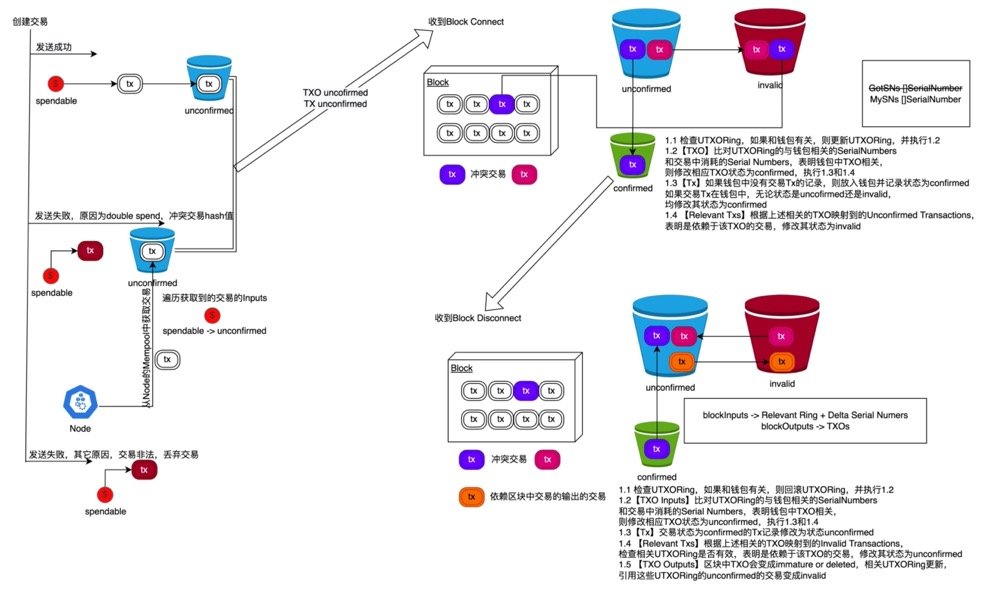
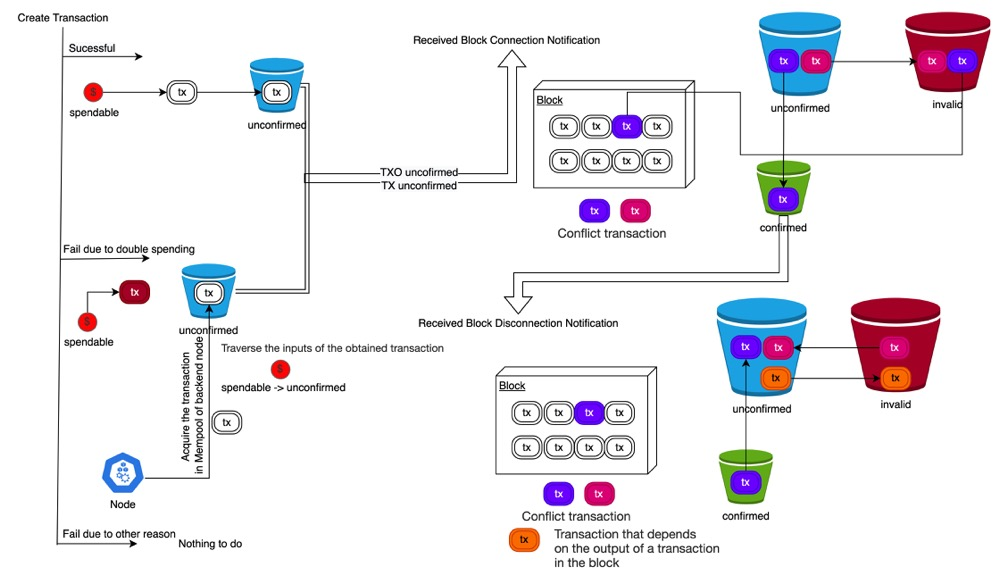
review and refactor the parts before sec. 4

Changed region(s): [[0.0, 0.0, 0.992, 0.9863], [0.186, 0.9247, 0.248, 0.9555], [0.372, 0.0925, 0.403, 0.1233]]

diff --git a/docs/AbewalletDesign.md b/docs/AbewalletDesign.md
@@ -140,44 +140,34 @@ The process is basically the same as creating a wallet, except that choose to **
 
 # 3. Detailed Designs
 
-## 3.1 The start of abewallet
-The ***package abewallet (actually abewallet/abewallet.go)*** is the entrance of the wallet.
-- It loads configuration and parse command line, and if the configuration file does not exist, it will initialize that.
-- The command and options to start abewallet are list as the table below:
-  - `abewallet --create`
-    - start wallet create procedure
-      - initial and fill the database
-      - generate the initial (first) address
-      - scan the genesis block
-  - `abewallet --walletpass=[public passphrase]`
-    - connect the ABEC node to synchronize the blockchain data
-    - start the RPC server to listen the client's requests
-  
-## 3.2 Wallet Create and Address Create
+## 3.1 Wallet Create and Address Generate
 
-#### 3.2.1 Wallet create
+### 3.2.1 Wallet Create
 
 The command `abewallet --create` will trigger the procedure of wallet creation.
 If the wallet database exits, it will just show the warning information and stop.
 Otherwise, it will 
 
-- request the user to input ***private passphrase*** and ***public passphrase***. 
+- request the user to input **private passphrase** and **public passphrase**. 
 
 - request the user to input whether he has a seed to restore the wallet. To create a new wallet, here the user should input 'No'.
 
-- generate the ***seed***, then convert the seed to **mnemonic words** with the wordlists defiend in package `wordlists`.
+- generate the **seed**, then convert the seed to **mnemonic words** with the word lists defined in package `abeallet.wordlists`.
 
-- create buckets relevant to address and transaction. More details would be described below【 TODO reference】.
+- create `buckets` relevant to address and transaction. More details would be described below in 3.?.?【 TODO reference】.
+  
+  **NOTE:** we are using ??? as the underlying database, where buckets are used to store the data in the form of (name, value) pair.
 
-- create the protecting key as shown in the following figure:
+- create the protecting keys as shown in the following figure:
 
   ![Manage Key](images/Manage Key.svg)
 
-  - Three crypto keys are generated randomly with the help of package `snacl` i.e. **public crypto key**, **private crypto key** and **seed crypto key**, which will be used to protect the wallet data.
+  - Three crypto keys are generated randomly with the help of package `abewallet.snacl` i.e. **public crypto key**, **private crypto key** and **seed crypto key**, 
+  which will be used to protect/encrypt the wallet data.
 
   - A **public master key** is generated from public passphrase, and is used to protect the public crypto key.
 
-  - A **private master key** is generated from private passphrase, and is used to protect the private crypto key and **seed crypto key**.
+  - A **private master key** is generated from private passphrase, and is used to protect the private crypto key and seed crypto key.
 
 - derive the seeds as shown in the following figure:
 
@@ -187,80 +177,96 @@ Otherwise, it will
 
     The seed will be wiped while these two derived seeds will be stored in the wallet for address generation. 
 
-- intialize the **index number** of address to be 0.
+- initialize the **index number** of address to be 0.
 
 - generate the initial (first) instance address according to the following process of address generation.
 
-#### 3.2.2 Address generate
+### 3.2.2 Address Generate
 
-To generate an **instance address**, the **instance seed** is firstly generated from the two derived seed and index number. More specifically, the instance seed consists of  two parts, the first part is generated from (the address key, the index number) , and the second part is generated from (the value key seed, the index number). Then, the instance seed is used to call the package `abec/abecrypto`, and an instance address and its keys are returned. The keys includes **crypto address spend key**, **crypto address serial number key**, and **crypto view key**. The index number will be incremented by 1.
+To generate an **instance address**, an **instance seed** is firstly generated from the two derived seeds and the current index number. 
+More specifically, the instance seed consists of two parts, where the first part is generated from (the address key, the index number) and the second part is generated from (the value key seed, the index number). 
+Then, the instance seed is used to call the package `abec.abecrypto`, and an instance address and its keys are returned. 
+The keys include **crypto address spend key**, **crypto address serial number key**, and **crypto view key**. The index number will be incremented by 1.
 
-- **instance address** is used as receiving address such as as mining address or a receiving address for transfer transactions.
-- **crypto address spend key** is used to transfer money, the key would be require when generating the transaction.
-- **crypto address serial number key** is used to generate an unique identification for each transaction ouptut in abelian blockchain.
-- **crypto view key** is used to view the currency information in the transaction output.
+- **instance address** is used as the mining address in mining or receiving address in transfer transactions.
+- **crypto address spend key** is used to transfer coins, which is used to unlock the wallet before creating transfer transactions.
+- **crypto address serial number key** is used to generate a unique identifier for each TXO in Abelian blockchain.
+- **crypto view key** is used to view the currency information in the transaction output. 
 
-NOTE: the address key seed and the value key seed is protected by the seed crypto key; the instance addres, the crypto address serial number key, and the crypto view key are protected by public crypto key; and the crypto address spend key is protected  by private crypto key. 
+NOTE: the address key seed and the value key seed is protected by the seed crypto key;
+the crypto address spend key is protected  by private crypto key;
+the instance address, the crypto address serial number key and the crypto view key are protected by public crypto key.
 
-## 3.3 Configure the connected ABEC node
 
-Overview of connection architecture :
+## 3.3 Configure the Wallet
+
+The overview of the connection between wallet and ABEC node, 
+as well as the services to users is shown as the following figure.
 
 ![Module Connection](images/Module Connection.svg)
 
-- At the node side, port 8667 as the default port is used to listen for connections and requests, at the same time,  `rpcuser`, `rpcpass`  and certificates is used to  provide identity authentication capabilities.
+- At the ABEC node side, port 8667 is used as the default port to listen for connections and requests.
+  At the same time,  `rpcuser`, `rpcpass`  and certificates are used to  provide identity authentication capabilities.
 
-- At the wallet side, port 8665 as the default port is used to listen for connections and requests, at the same time,  `username`, `password`  and certificates is used to  provide identity authentication capabilities. At the same time,  the wallet establishes a connection with the node by specifying `abecrpcuser` and `abecrpcpass`, IP address of abelian node, and its certificate.
+- At the wallet side, to connect a local or remote ABEC node, `abecrpcuser`, `abecrpcpass`, `abecrpcconnect` (for IP address and port (default 8667) of ABEC node), and `abeccafile` (for certificate of ABEC node) need to be configured.
+  On the other side, to provide services to users, wallet must make a minimum configure to configure `rpcuser` and `rpcpass`, which will be used to access the services of wallet.
+  The port 8665 is used as the default port to listen for connections and requests to wallet.
 
-	NOTE: 
+- At the user side, the owner can access the wallet service by using `rpcuser`, `rpcpass`, `rpcserver` (for IP address and port (default 8665) of wallet), and `rpccert`. For example, by **abewalletctl** or **??** connection.
 
-- If `abecrpcuser` and `abecrpcpass` are not specified, the `username` and  `password` are used instead.【TODO discard the bind, rename abecrpcuser/abecrpcpass to abecrpcuser/abecrpcpass, username/password to rpcuser/rpcpass 】
+**NOTE:** 
+- If the wallet runs in the same machine with the ABEC node, the `abeccafile` and `abecrpcconnect` don't need to be configured.
 
-- If the wallet runs in the same machine, the `cafile` and `rpcconnect` don't need to be set.
-
-At the abewalletctl side, the command terminal establishes a connection with the wallet by specifying `rpcuser`, `rpcpass` , IP address of wallet, and its certificate.
-
-NOTE: 
-
-- If the abewalletctl runs in the same machine, the `rpccert` and `rpcserver` don't need to be set.
+- If the abewalletctl runs in the same machine with the wallet, the `walletrpccert` and `walletrpcserver` don't need to be set.
 
 ## 3.4 Synchronize the blockchain
 
-By scanning the blockchain data, the wallet checks and stores the transaction outputs (also known as  **TXO**s or **coin**s). According to the characteristics of the blockchain, it can be divided into two basic processes, one is that a block is connected to the block chain, and the other is that the block is disconnected from the block chain. Both cases can be realized through the notification mechanism of the node. 
+For a wallet configured to connect a ABEC node, when it is started, it will 
+establish a connection with the configured ABEC node, 
+synchronize the blockchain from the ABEC node to find and fetch its coins and related data,
+and keep synchronized with the ABEC node by receiving and handling the notifications of block-connect and block-disconnect.
+With the synchronized data, the wallet maintains the following data, including
 
-The database of wallet is design as follow:
+- the addresses of the wallet, 
+- the TXO/coin set of the wallet, 
+- the transactions generating or consuming the related to the wallet,
+- and the deduced and related data, such as balance, **txo-ring**, etc. 
 
-The wallet status includes the address and derivative status associated with the wallet, the wallet balance, the TXO set associated with the wallet and its status, the transaction related to the wallet and its status.
+The database of wallet is designed as follows:
+- Wallet maintains an **index number** as a status of the wallet, and each address is generated and associated with a unique index number.
+- Wallet maintains the TXOs associated with the addresses, which are divided into the following five categories, to support query and transfer.
+  - **immature coinbase TXO set**, storing the wallet's TXOs which are generated by coinbase transaction but still unspendable.
+  NOTE: In Abelian, a TXO/coin generated by coinbase transaction in block with height `h` will become matured/spendable only when the blockchain height `H` satisfies `H - h/3 >= 200`. 
+  - **immature transfer TXO set**, storing the wallet's TXOs which are generated by transfer transaction but still unspendable.
+    NOTE: In Abelian, a TXO/coin generated by transfer transaction in block with height `h` will become matured/spendable only when the blockchain height `H` satisfies `H/3 - h/3 >= 1`.
+  - **mature txo set**, storing the spendable TXOs.
+  - **unconfirmed txo set**, storing the TXOs that have been spent but the corresponding transactions have not been confirmed/mined by current synchronized blockchain.
+  - **confirmed txo set**, storing the wallet's TXOs that have been spent and confirmed.
+- Wallet maintains the **UTXORing**s of the wallet, where each UTXORing consists of a set of TXOs, one or more of which belong to the wallet.
+  NOTE: In Abelian, each input of a transfer transaction is a (TXORing, serial number) pair.
 
-- Wallet maintains a index number and derives a new address according to the indexer number
-- Wallet maintains balance information to support query
-- The wallet maintains the wallet-related TXO set, which divides the TXO into five categories and supports querying different status TXO set.
-
-  - Immature coinbase txo set
-  - immature transfer txo set
-  - mature txo set
-  - unconfirmed txo set
-  - confirmed txo set
-
-In the wallet, the processing logic for the block chain transaction output is as follows:
+In the wallet, the processing procedure is described as below:
 
 ![Store UTXOs](images/Store UTXOs.svg)
 
-- When receiving a block connection notification, do the following process:
-  - traverse all the output. If it belongs to you, record it and put it in two buckets (immature coinbase and immature transfer).
-    - generate block output records for quick rollback
-    - Update immature balance and total balance
-  - deal with all input and generate block input records for quick rollback
-  - move matured output/unconfirmed output-> confirmed output
+- When receiving a block-connect notification, fetch the block, and do the following process for each transaction:
+  - traverse all the outputs. 
+  If a TXO belongs to the wallet (depending on the TXO and the wallet's addresses and keys), 
+  then put the TXO into either immature coinbase TXO bucket or the immature transfer TXO bucket.
+    - generate `block output` records **(TODO: name the database/structure explicitly)** for quick rollback
+    - update immature balance and total balance
+  - deal with all inputs. Identify the consumed TXOs and move the corresponding TXO from matured TXO bucket/unconfirmed TXO bucket into confirmed TXO bucket.
+    - generate `block input` records for quick rollback
     - update mature balance, unconfirmed balance and total balance
     - update UTXORing
-  - process coinbase maturity, check immatured coinbase data, and update immature coinbase balances and mature balances
-  - check whether the current height is a special height, and if so, generate a ring.
-    - update and record RingDetail and UTXORing for relevant transaction output
+  - process maturity.
+    - move the new mature coinbase/transfer TXO to the mature bucket, and update the immature coinbase/transfer balance and mature balance.
+  - check whether the current height is a special height, and if so, generate new UTXORings.
+    - update and record `RingDetail` and `UTXORing` for relevant transaction output
     - update immature transfer balances, mature balances
   - storing block and balance
-- When receiving a block disconnection notification, do the following process:
-  - check whether the current height is a special height, and if so, pull out the blockoutput of the three blocks that generate the ring.
+- When receiving a block-disconnect notification, do the following process:
+  - check whether the current height is a special height, and if so, pull out the `blockoutput` of the three blocks that generate the ring.
     - for the corresponding things in mature/unconfirmed/confirmed transaction output, modify their RingHash to zero, and move to immatured transfer output respectively
     - for the only modified utxo.RingHash in immatured coinbase, put it back to immature coinbase output
     - update immature/mature/unconfirm/total balance
@@ -268,13 +274,13 @@ In the wallet, the processing logic for the block chain transaction output is as
   - fetch the block output record, and delete them from immature trasfer/coinbase output, meanwhile update immature/total balance
   - fetch the block input record, update/delete UTXORing, and compare new and old UTXORing
     - put the corresponding UTXO of the serial number back into the mature output, then update mature/total balance
-  - change the coinbase of the corresponding block to immature coinbase, and update the freezed/spendable balance
+  - change the coinbase of the corresponding block to immature coinbase, and update the frozen(**??**)/spendable balance
 
 ## 3.5 Query wallet information
 
 To support querying wallet information, the wallet provides external service through RPC Server, the default port is 8667.
 
-All services are provided by registering the command name and the corresponding handler in package `rpc/legacyrpc`.
+All services are provided by registering the command name and the corresponding handler in package `abewallet.rpc.legacyrpc`.
 
 | Name                   | Paramters               | Description                                                  |
 | ---------------------- | ----------------------- | ------------------------------------------------------------ |
@@ -287,29 +293,35 @@ All services are provided by registering the command name and the corresponding 
 | listspendbutunminedabe | null                    | print all unconfirmed txos which belong wallet by directly querying the sub-bucket in database |
 | listspentandminedabe   | null                    | print all confirmed txos which belong wallet by directly querying the sub-bucket in database |
 | generateaddressabe     | null                    | derive a new address by derived seed and index number which increase by 1 after completion |
-| walletpassphrase       | passphrase<br />timeout | keep the wallet unlocked for a specified time                |
 
-## 3.6 Transfe Transaction Create
 
-Wallet maintains wallet-related transactions. Transactions are divided into three categories. Inquiry transactions will be supported later.
+## 3.6 Transfer Transaction Create
 
-- unconfirmed
-- confirmed
-- invalid
+Wallet maintains the wallet-related transactions, including those generated coins to wallet and those consumed wallet's coins.
+According to the status, the transactions are divided into three categories:
+- unconfirmed transactions
+- confirmed transactions
+- invalid transactions
 
-The transaction status flow is shown in the following figure, more details can be found below.：
+Inquiry transactions will be supported later.
+
+The transaction status flow is described below as shown in the following figure, from the perspectives of the following three events
 
 - When creating a transaction, 
-- When receiving a block connection notification,
-- When receiving a block disconnection notification,
+- When receiving a block-connect notification,
+- When receiving a block-disconnect notification,
 
-![Store Transaction](./images/Store Transaction - English.svg)
+![Store Transaction](./images/Store Transaction.svg)
 
 The logic of managing transaction:
 
-- When creating a transaction, if the transaction is sucessful ,the record it as unconfirmed. Otherwise, if the transaction is rejected due to doule spending, so the conflicted transaction would be queried and record.
-- When receiving a block connection notification,
-  - check UTXORing, update UTXORing if it is related to wallet, and execute following processes
+- When creating a transaction, if the operation is successful, then record it as unconfirmed. 
+  Otherwise, if the transaction is rejected due to double-spending, then query and fetch the conflicted transaction from the ABEC node and store it locally in unconfirmed status.
+- When receiving a block connection notification, fetch the block, and perform the following procedure for each transaction in the block:
+  - check whether the transaction is in `unconfirmed transaction bucket` or `invalid transaction` bucket
+    - If yes, move the corresponding transaction to `conformed transaction bucket`, and move all conflict transactions to `invalid transaction bucket`
+    - **todo**: is it possible that there is no such a transaction or in `confirmed transaction bucket`, but the transaction is related to the wallet's coins?
+  - check UTXORings in wallet. If a  and update UTXORing if the it is related to wallet, and execute following processes
     - [TXO] compare UTXORing's wallet-related SerialNumbers and the Serial Numbers consumed in the transaction, indicating that the TXO in the wallet is related. Then change the corresponding TXO status to confirmed
     - [Tx] if there is no record of trading Tx in the wallet, put it in the wallet and record the status as confirmed. If the transaction Tx is in the wallet, regardless of whether the status is uncofirmed or invalid, modify their status to confirmed.
     - [Relevant Txs] the Unconfirmed Transactions mapped to according to the relevant TXO above. Indicates that the transaction is dependent on the TXO and changes its status to invalid
@@ -322,15 +334,21 @@ The logic of managing transaction:
 
 ## 3.7 Restore Wallet
 
-Users can recover their wallets through the mnemonic words saved when generating the wallet. The process is basically the same as creating a wallet. As shown in the following figure, the main difference is that the user converts active input mnemonic words into seeds rather than automatically created by the wallet and then into mnemonic words. Note that the user is required to input the **max index number** of recovery addresses.
+A user can restore his wallet through the crypto version and mnemonic words saved when generating the wallet. 
+The process is basically the same as creating a new wallet, except choosing to `have seed` to restore the wallet.
+Note that the user is required to input the **max index number** of recovery addresses.
 
-The wallet initializes the database, converts the mnemonic words to the seed, and complete the process of seed derivation, and initialize index at the same time and generates addresses based on the maximum number of addresses entered, and  the genesis block will be scanned.
+The wallet initializes the database, converts the mnemonic words to the seed, 
+and complete the process of seed derivation, 
+and initialize index at the same time and generates addresses based on the maximum number of addresses entered, 
+and the genesis block will be scanned.**todo**: genesis block is hardcoded in wallet?
 
-![Create Wallet](./images/Restore Wallet (User Interface).svg)
+![Create Wallet](./images/Restore Wallet for User Interface.svg)
 
 
 
 # 4. Package and its dependence
+**todo**
 
 An overview of package dependencies is shown in the following figure:
 
